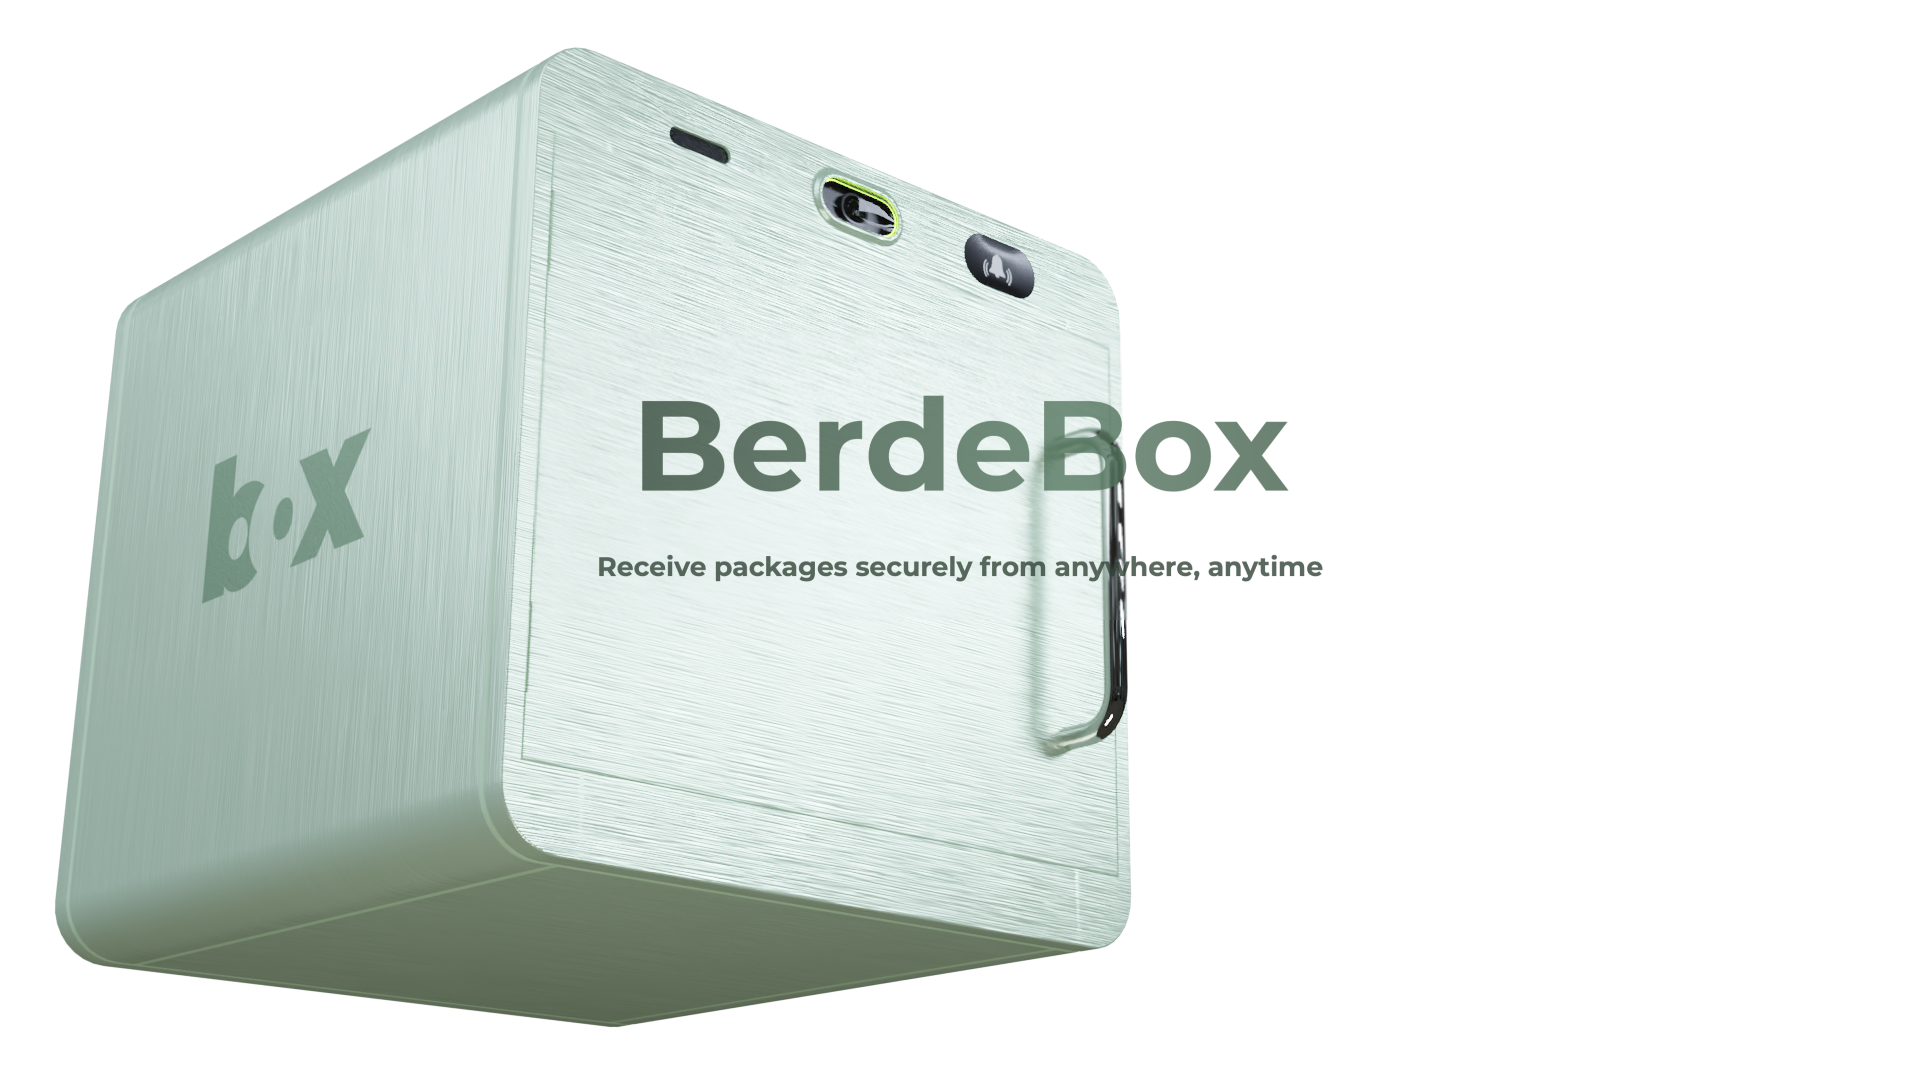
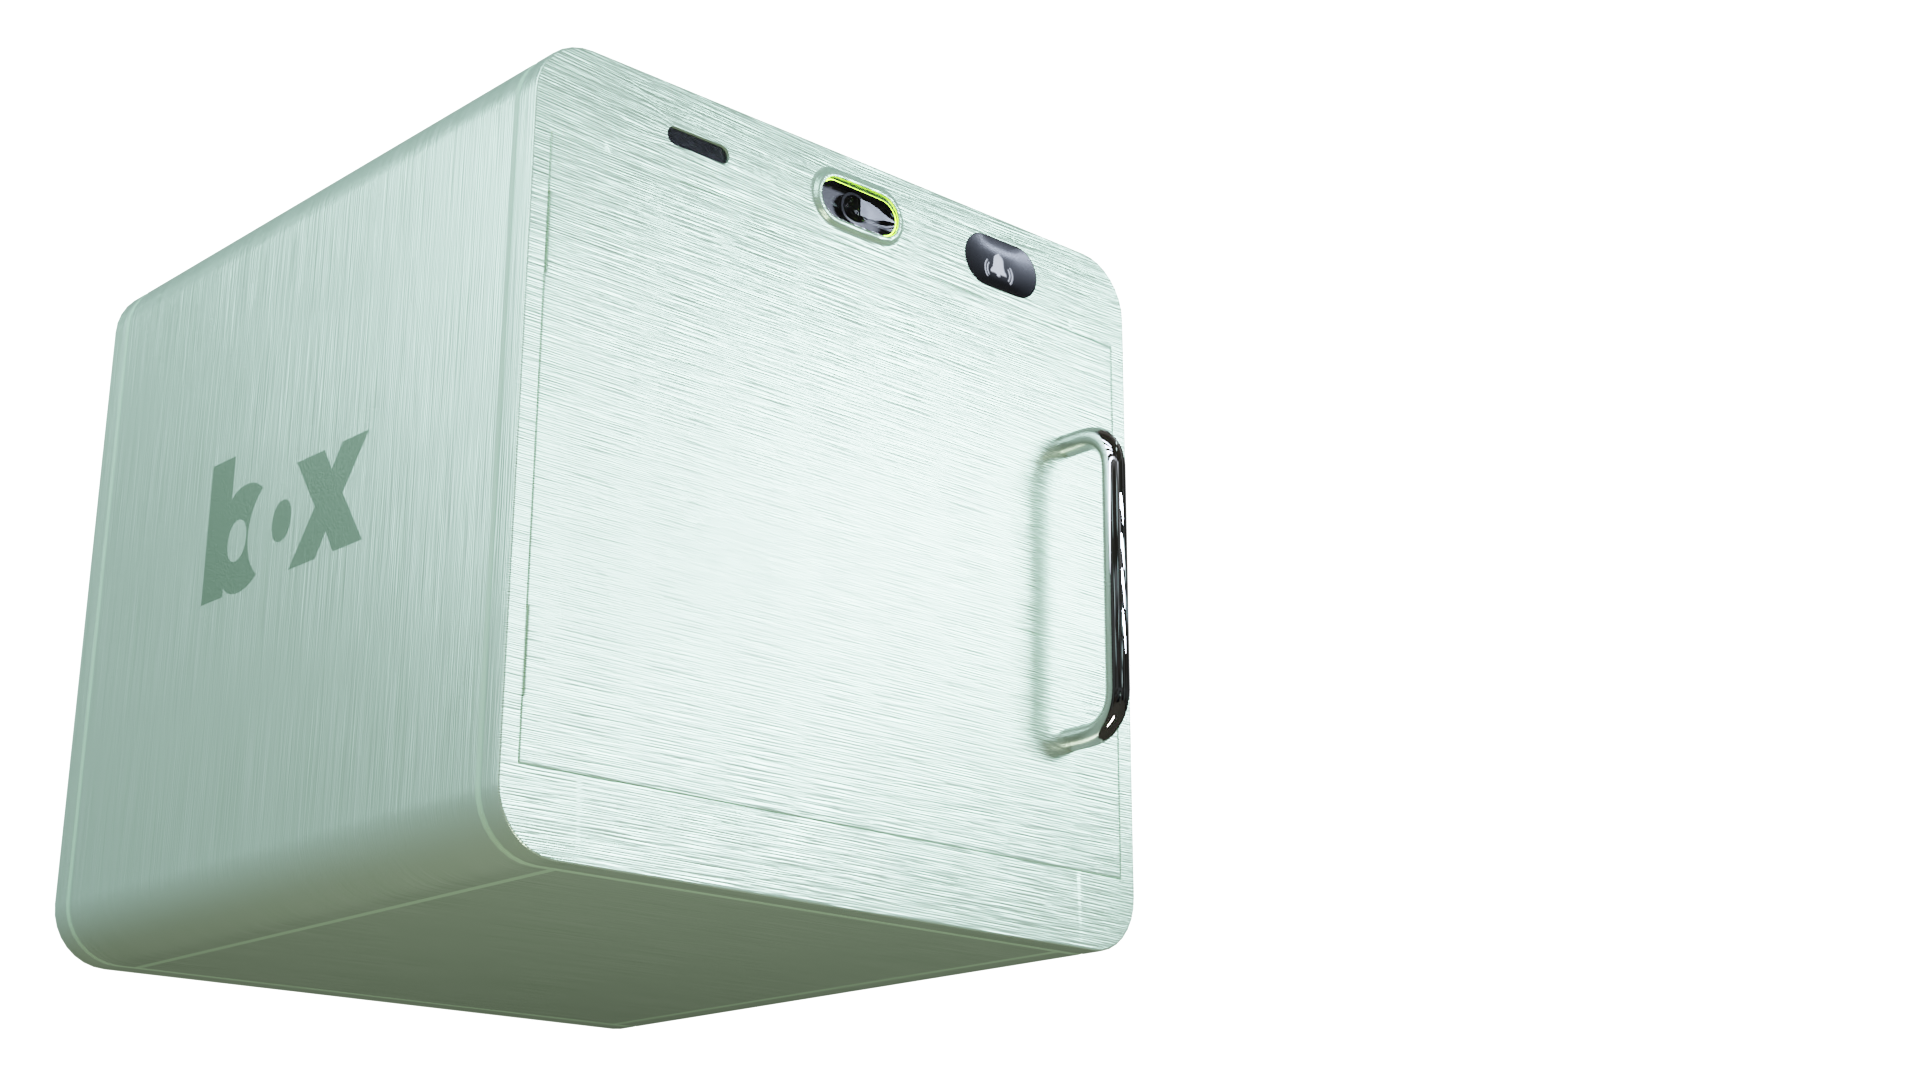
feat: adjust title text to match image sequence

diff --git a/src/routes/+page.svelte b/src/routes/+page.svelte
@@ -2,13 +2,14 @@
 	import Nav from '$lib/components/landing/Nav.svelte';
 	import Footer from '$lib/components/landing/Footer.svelte';
 	import ImageSequence from '$lib/components/landing/ImageSequence.svelte';
-	import TextSequence from '$lib/components/landing/TextSequence_old.svelte';
 	import { cubicOut } from 'svelte/easing';
 	import FeatureCard from '$lib/components/landing/FeatureCard.svelte';
+	import { onMount } from 'svelte';
 
+	let isEnd: boolean;
 	let scrollY: number;
 
-	const framesIntro = 61;
+	const framesIntro = 60;
 	const framesModules = 25;
 
 	// Animation
@@ -46,23 +47,60 @@
 		const t = Math.min(1, Math.max(scrollY / fadeDistance, 0.2));
 		return cubicOut(1 - t);
 	};
+
+	// INTRO
+	let introElement: HTMLElement;
+	let introText: any;
+	let canvasElement: HTMLCanvasElement;
+	let introCanvasHeight: any;
+
+	let cashboxCanvasElement: HTMLCanvasElement;
+	let uvboxCanvasElement: HTMLCanvasElement;
+	let solarCanvasElement: HTMLCanvasElement;
+
+	onMount(() => {
+		introText = introElement.getBoundingClientRect();
+
+		console.log(introText.top, introText.right, introText.bottom, introText.left);
+	})
+
+	$: {
+		console.log(typeof window, introElement)
+		if (typeof window !== 'undefined' && introElement && scrollY) {
+			introText = introElement.getBoundingClientRect();
+			introCanvasHeight = canvasElement.getBoundingClientRect().height
+			console.log("duration", introCanvasHeight)
+
+			console.log(introText.top, introText.right, introText.bottom, introText.left);
+		}
+	}
+	
 </script>
 
 <svelte:window bind:scrollY />
 
 <Nav {scrollY}/>
+
 <body>
-	<div class="bg-white flex flex-col items-center">
+	<div class="relative bg-white flex flex-col items-center w-full">
 		<!-- INTRO -->
 		<div class="relative w-full bg-white">
-			<div class="">
-				<section class="full-screen" style="opacity: {calculateOpacity(scrollY, 250)}" />
-				<ImageSequence initialY={0} {scrollY} duration={220} images={intro} />
+			<div bind:this={introElement} 
+				class={ isEnd ? "z-50 w-full" : "fixed top-[30%] z-50 w-full"}
+				style={ isEnd ? `position: absolute; top: ${introText.top + scrollY}px; left: ${introText.left}px; right: ${introText.right}px; bottom: ${introText.bottom + scrollY}px; z-index: 50; width: 100%;` : ''}
+			>
+				<div class="grid text-bb-black gap-[27px] text-content animate-fade-in text-center">
+					<h1 class="text-[121px] animate-gradient">BerdeBox</h1>
+					<h5 class="text-[25.25px] pt-[10px] text-bb-dark-green/[.8]">Receive packages securely from anywhere, anytime</h5>
+					<div class="flex gap-4">
+					</div>
+				</div>
 			</div>
-			<TextSequence {scrollY} textFrames={text} />
+			<div class="relative z-40">
+				<section class="full-screen" style="opacity: {calculateOpacity(scrollY, 250)}" />
+				<ImageSequence bind:canvas={canvasElement} frameCount={framesIntro} bind:isEnd initialY={0} {scrollY} duration={2*introCanvasHeight} images={intro} />
+			</div>
 		</div>
-
-
 
 		<!-- FEATURES -->
 		<!-- header -->
@@ -122,7 +160,7 @@
 		<!-- CASHBOX MODULE -->
 		<div class="relative w-full h-[70vh]">
 			<div class="absolute max-w-[60%]">
-				<ImageSequence initialY={3600} {scrollY} duration={60} images={cashbox} />
+				<ImageSequence bind:canvas={cashboxCanvasElement} frameCount={framesModules} initialY={3600} {scrollY} duration={60} images={cashbox} />
 			</div>
 			<div class="absolute w-full h-[50vh] items-center grid grid-cols-2 z-50 text-bb-black">
 				<div />
@@ -136,7 +174,7 @@
 		<!-- UV LIGHT MODULE -->
 		<div class="relative w-full h-[70vh]">
 			<div class="absolute max-w-[60%]">
-				<ImageSequence initialY={4400} {scrollY} duration={60} images={uvlight} />
+				<ImageSequence bind:canvas={uvboxCanvasElement} frameCount={framesModules} initialY={4400} {scrollY} duration={60} images={uvlight} />
 			</div>
 			<div class="absolute w-full h-[50vh] items-center grid grid-cols-2 z-50 text-bb-black">
 				<div />
@@ -150,7 +188,7 @@
 		<!-- Solar Panel -->
 		<div class="relative w-full h-[70vh]">
 			<div class="absolute max-w-[60%]">
-				<ImageSequence initialY={5300} {scrollY} duration={60} images={solarPanel} />
+				<ImageSequence bind:canvas={solarCanvasElement} frameCount={framesModules} initialY={5300} {scrollY} duration={60} images={solarPanel} />
 			</div>
 			<div class="absolute w-full h-[50vh] items-center grid grid-cols-2 z-50 text-bb-black">
 				<div />
@@ -228,4 +266,48 @@
                 background-position: 100% 50%;
             }
         }
+
+			@keyframes fadeIn {
+		0% {
+			opacity: 0;
+		}
+		100% {
+			opacity: 1;
+		}
+	}
+
+	.animate-fade-in {
+		animation: fadeIn 0.5s ease-in-out forwards;
+	}
+
+	@keyframes fadeOut {
+		0% {
+			opacity: 1;
+		}
+		100% {
+			opacity: 0;
+		}
+	}
+
+	.animate-fade-out {
+		animation: fadeOut 0.5s ease-in-out forwards;
+	}
+
+	@keyframes gradient-move {
+        0% {
+            background-position: 0% 50%;
+        }
+        100% {
+            background-position: 100% 50%;
+        }
+    }
+
+    .animate-gradient {
+        background: linear-gradient(270deg, #557760, #304336, #557760, #304336);
+        background-size: 200% 200%;
+        animation: gradient-move 12s ease infinite;
+        -webkit-background-clip: text;
+        -webkit-text-fill-color: transparent;
+		opacity: 0.8;
+	}
 </style>

diff --git a/src/landing.css b/src/landing.css
@@ -3,46 +3,29 @@
 @tailwind utilities;
 
 h1 {
-	font-size: 96px;
-	font-weight: 700;
-	line-height: 120px;
-	font-family: 'Montserrat', sans-serif;
+  @apply text-5xl md:text-6xl lg:text-7xl xl:text-8xl font-bold leading-none md:leading-tight lg:leading-tight font-sans;
 }
 
 h2 {
-	font-size: 78px;
-	font-weight: 700;
-	line-height: 90px;
-	font-family: 'Montserrat', sans-serif;
+  @apply text-4xl md:text-5xl lg:text-6xl xl:text-7xl font-bold leading-none md:leading-tight lg:leading-tight font-sans;
 }
 
 h3 {
-	font-size: 64px;
-	font-weight: 600;
-	line-height: 78px;
-	font-family: 'Montserrat', sans-serif;
+  @apply text-3xl md:text-4xl lg:text-5xl xl:text-6xl font-semibold leading-tight md:leading-tight lg:leading-tight font-sans;
 }
 
 h4 {
-	font-size: 48px;
-	font-weight: 500;
-	line-height: 140%;
+  @apply text-2xl md:text-3xl lg:text-4xl xl:text-5xl font-medium leading-relaxed md:leading-relaxed lg:leading-relaxed;
 }
 
 h5 {
-	font-size: 20px;
-	font-weight: 700;
-	line-height: 155%;
+  @apply text-lg md:text-xl lg:text-2xl xl:text-3xl font-bold leading-relaxed md:leading-relaxed lg:leading-relaxed;
 }
 
 p {
-	font-size: 18px;
-	font-weight: 300;
-	line-height: 140%;
+  @apply text-base md:text-lg lg:text-xl xl:text-2xl font-light leading-relaxed md:leading-relaxed lg:leading-relaxed;
 }
 
 h6 {
-	font-size: 14px;
-	font-weight: 300;
-	line-height: 11.4px;
+  @apply text-sm md:text-base lg:text-lg xl:text-xl font-light leading-none md:leading-tight lg:leading-tight;
 }

diff --git a/src/lib/components/landing/ImageSequence.svelte b/src/lib/components/landing/ImageSequence.svelte
@@ -1,13 +1,16 @@
 <script lang="ts">
 	import { onMount } from 'svelte';
 
+	export let isEnd: boolean = false;
 	export let initialY: number;
 	export let scrollY: number;
 	export let duration: number;
 	export let images: string[];
+	export let frameCount: number;
+	
 
 	let section: HTMLElement;
-	let canvas: HTMLCanvasElement;
+	export let canvas: HTMLCanvasElement;
 	let imageSources: HTMLImageElement[] = [];
 
 	function loadImages() {
@@ -72,13 +75,21 @@
 			const progress = scrollTop / contentHeight;
 			const frame = Math.max(0, Math.min(images.length - 1, Math.floor(progress * images.length)));
 			drawImage(frame);
-		}
 
-		console.log(netScrollY);
+			console.log("HERE", scrollY, duration)
+			if (scrollY >= duration/2){
+				isEnd = true;
+			}  else{
+				isEnd = false;
+			}
+		} else {
+			isEnd = true;
+
+		}
 	}
 </script>
 
-<section bind:this={section} style="--duration: {duration || 100}vh;">
+<section bind:this={section} style="--duration: {duration}px;">
 	<canvas class="h-auto" bind:this={canvas} />
 </section>
 
